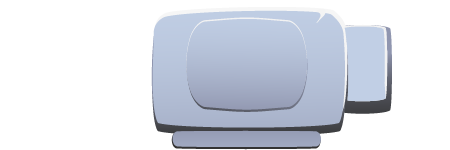
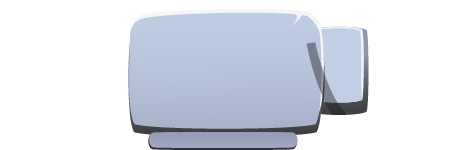
replaced spinbtn UI

Changed region(s): [[0.28, 0.0533, 0.8711, 1.0]]

diff --git a/src/utils/create_game_interface/create_game_interface.utils.ts b/src/utils/create_game_interface/create_game_interface.utils.ts
@@ -5,6 +5,7 @@ import { store } from "../../store/store";
 import { createSprite } from "../create_sprite/create_sprite.util";
 import { createText } from "../create_text/create_text.util";
 import { createBtn } from "../create_btn_hitpoint/create_btn_hitpoint.util";
+import { createSpinBtn } from "../create_spin_btn/create_spin_btn.util";
 const { bet } = store.getState().gameEconomy
 const { gameContainer, UI_, symbol } = store.getState().screenSize
 const quaterSize = symbol.fullSize * 0.25
@@ -22,11 +23,12 @@ export function createUI(fetchNewData: () => Promise<GameStatus | undefined>, ap
     const leftContainer = createUILeftContainer()
     const centerContainer = createUICenterContainer(fetchNewData)
     const rightContainer = createUIRightContainer()
-    centerContainer.position.x = oneSize + quaterSize + halfSize
-    rightContainer.position.x = fourSize + quaterSize
+
     UIContainer.addChild(leftContainer)
     UIContainer.addChild(centerContainer)
     UIContainer.addChild(rightContainer)
+    centerContainer.position.x = (UI_.width - centerContainer.width) / 2
+    rightContainer.position.x = fourSize + quaterSize
 
     return UIContainer
 }
@@ -35,7 +37,7 @@ export function createUIContainer(name: string, width = symbol.fullSize, y = 0) 
     const container = new Container()
     container.name = name
     container.width = width
-    container.height = UI_.height 
+    container.height = UI_.height
     container.position.y = y
     return container
 
@@ -45,16 +47,22 @@ export function createUICenterContainer(fetchNewData: () => Promise<GameStatus |
     const centerContainer = createUIContainer("centerContainer", threeSize)
     const autoSprite = createCenterSprite("ANVIL_1");
     const spinSprite = createCenterSprite("ANVIL_2");
+    const spinBtn = createSpinBtn()
+    console.log("spinbtn", spinBtn)
     const maxBetSprite = createCenterSprite("SHIELD");
     const autoHitArea = addHitArea("ANVIL_1", autoSprite, fetchNewData)
-    const spinHitArea = addHitArea("ANVIL_2", spinSprite, fetchNewData)
+    const spinHitArea = addHitArea("ANVIL_2", spinBtn, fetchNewData)
     const maxBetHitArea = addHitArea("SHIELD", maxBetSprite, fetchNewData)
     centerContainer.addChild(autoSprite)
     centerContainer.addChild(spinSprite)
     centerContainer.addChild(maxBetSprite)
+    centerContainer.addChild(spinBtn)
     centerContainer.addChild(autoHitArea)
     centerContainer.addChild(spinHitArea)
     centerContainer.addChild(maxBetHitArea)
+  
+    spinBtn.x = (threeSize - spinBtn.width) / 2
+    spinBtn.y = UI_.height * 0.1
     return centerContainer
 
 }
@@ -119,7 +127,7 @@ export function createUILeftContainer() {
 export function createUIRightContainer() {
     const { coins, coinValue } = store.getState().gameEconomy
     const btnSize = oneSize * 0.16
-    const rightContainer = createUIContainer("rightContainer", twoSize + (oneSize / 2))
+    const rightContainer = createUIContainer("rightContainer", twoSize)
 
     // display 1
     const coinValueContainer = createUIContainer("displayContainer", oneSize)
@@ -152,7 +160,7 @@ export function createUIRightContainer() {
     coinValueContainer.addChild(coinValueTxt)
     coinValueContainer.addChild(amountTxt)
 
-    coinValueContainer.position.x = halfSize
+    coinValueContainer.position.x = halfSize + quaterSize
 
 
     // display 2
@@ -167,13 +175,13 @@ export function createUIRightContainer() {
 
     goldCoinAmountTxt.y = goldCoinTxtY
     goldCoinAmountTxt.x = goldCoinTxtX
-    goldCoin.position.y = goldCoinY 
+    goldCoin.position.y = goldCoinY
     goldCoin.position.x = goldCoinX + halfDisplay
 
     goldCoinContainer.addChild(goldCoinDisplay)
     goldCoinContainer.addChild(goldCoin)
     goldCoinContainer.addChild(goldCoinAmountTxt)
-    goldCoinContainer.position.x = halfSize + oneSize
+    goldCoinContainer.position.x = oneSize + halfSize + quaterSize
 
     rightContainer.addChild(coinValueContainer)
     rightContainer.addChild(goldCoinContainer)

diff --git a/src/utils/create_button/create_button.util.ts b/src/utils/create_button/create_button.util.ts
@@ -1,4 +1,4 @@
-import { Container, Geometry, Graphics, Rectangle, Sprite, Text, TextStyle, utils } from "pixi.js";
+import { Container, DisplayObject, Geometry, Graphics, Rectangle, Sprite, Text, TextStyle, utils } from "pixi.js";
 import { Assets } from "../../types/global.types";
 import { store } from "../../store/store";
 import { GlowFilter } from "@pixi/filter-glow";
@@ -17,8 +17,6 @@ export function createCenterSprite(imgIcon: Assets) {
   sprite.eventMode = "static"
   sprite.alpha = 1;
   sprite.filters = [glow]
-  sprite.height = UI_.height
-  sprite.width = width
   return sprite
 }
 
@@ -32,7 +30,7 @@ export const textStyle = new TextStyle({
   dropShadowDistance: 2,
 })
 
-export function addHitArea(imgIcon: Assets, sprite: Sprite, fetchNewData: (bet?: number) => Promise<GameStatus | undefined>) {
+export function addHitArea(imgIcon: Assets, sprite: Sprite | Container<DisplayObject>, fetchNewData: (bet?: number) => Promise<GameStatus | undefined>) {
   const oneSquare = symbol.fullSize
   const hitContainer = new Container()
   hitContainer.name = `${imgIcon}_hitarea`
@@ -48,7 +46,7 @@ export function addHitArea(imgIcon: Assets, sprite: Sprite, fetchNewData: (bet?:
 
   if (imgIcon === "ANVIL_1") {
     const y = oneSquare * 0.2
-    const x = oneSquare * 0.5
+    const x = oneSquare * 0.3
     hitArea.position.x = x
     hitArea.position.y = y
     const autotxt = new Text("AUTO", textStyle);
@@ -63,28 +61,33 @@ export function addHitArea(imgIcon: Assets, sprite: Sprite, fetchNewData: (bet?:
     hitContainer.addChild(bettxt)
 
     hitArea.on('click', () => {
+      glowFilter.enabled = false
       store.dispatch({ type: "SET_AMOUNT_OF_BETS", bets: 5 })
     })
     hitArea.on('tap', () => {
+      glowFilter.enabled = false
       store.dispatch({ type: "SET_AMOUNT_OF_BETS", bets: 5 })
     })
 
   }
   if (imgIcon === "ANVIL_2") {
-    const y = oneSquare * 0.2
-    const x = oneSquare * 1.4
+    const y = oneSquare * 0.20
+    const x = oneSquare * 1.25
     hitArea.position.x = x
     hitArea.position.y = y
     const spintxt = new Text("SPIN", textStyle);
-    const spinMargin = (hitArea.width - spintxt.width) / 2
-    spintxt.x = x + spinMargin
-    spintxt.y = y
+    const spinMarginX = (hitArea.width - spintxt.width) / 2
+    const spinMarginY = (hitArea.height - spintxt.height) / 2
+    spintxt.x = x + spinMarginX
+    spintxt.y = hitArea.y + spinMarginY
     hitContainer.addChild(spintxt)
 
     hitArea.on('click', () => {
+      glowFilter.enabled = false
       gameController(fetchNewData)
     })
     hitArea.on('tap', () => {
+      glowFilter.enabled = false
       gameController(fetchNewData)
     })
 

diff --git a/src/components/game_canvas/game_canvas.component.tsx b/src/components/game_canvas/game_canvas.component.tsx
@@ -119,17 +119,9 @@ export function GameCanvas() {
     </CanvasContainer>
 }
 
-
 export function spinOneTime(app: Application<HTMLCanvasElement>, memoGameData: Result) {
 
     const { totalPrice } = store.getState().game
-    const gameContainer = findContainer(app, "gameContainer")
-    const darkness = findContainer(app, "darkness")
-    const goldTexture = utils.TextureCache[`./assets/GOLD.png`]
-    const gold = Texture.from('./GOLD.png')
-
-
-
 
     let time = 0
     const tick = new Ticker()
@@ -170,7 +162,6 @@ export function spinOneTime(app: Application<HTMLCanvasElement>, memoGameData: R
                     mask.rotation += rotationSpeed;
                     mask.scale.x = 1 + Math.sin(count) * 0.04;
                     mask.scale.y = 1 + Math.cos(count) * 0.04;
-
                 });
             }
         })
@@ -189,10 +180,8 @@ export function spinOneTime(app: Application<HTMLCanvasElement>, memoGameData: R
     // change this later
     const stopAt = symbol.fullSize
     let speed = 20;
-
     const oneSpin = new Ticker()
     oneSpin.add( () => {
-
         newGridContainer.y += speed;
         if (newGridContainer.position.y >= stopAt) {
             speed = 0
@@ -204,12 +193,10 @@ export function spinOneTime(app: Application<HTMLCanvasElement>, memoGameData: R
             }
             store.dispatch({ type: "ADD_COINS", payload: totalPrice })
             store.dispatch({ type: "NOT_LOADING" })
-
             oneSpin.destroy()
         }
     })
     oneSpin.start()
-
 }
 
 export function activateAlphas(memoGameData: Result) {

diff --git a/src/utils/create_spin_btn/create_spin_btn.util.ts b/src/utils/create_spin_btn/create_spin_btn.util.ts
@@ -1,0 +1,32 @@
+import { Container } from "pixi.js";
+import { createSprite } from "../create_sprite/create_sprite.util";
+import { store } from "../../store/store";
+import { GlowFilter } from "@pixi/filter-glow";
+
+const { gameContainer, UI_, symbol } = store.getState().screenSize
+const quaterSize = symbol.fullSize * 0.25
+const halfSize = symbol.fullSize * 0.5
+const oneSize = symbol.fullSize
+
+
+export function createSpinBtn() {
+    const container = new Container()
+    const glowOptions = { color: 0xffffff }
+    const glow = new GlowFilter(glowOptions)
+    
+    const ironSprite = createSprite("IRONFRAME")
+    const glassSprite = createSprite("GLASS")
+    const lavaSprite = createSprite("LAVA")
+    container.filters = [glow]
+    glow.enabled = false
+    container.sortableChildren = true
+    ironSprite.zIndex = 3
+    glassSprite.zIndex = 2
+    lavaSprite.zIndex = 1
+    container.addChild(ironSprite, glassSprite, lavaSprite)
+    glassSprite.y = (ironSprite.height - glassSprite.height) / 2
+    glassSprite.x = (ironSprite.width - glassSprite.width) / 2
+    lavaSprite.y = (ironSprite.height - lavaSprite.height) / 2
+    lavaSprite.x = (ironSprite.width - lavaSprite.width) / 2
+    return container
+}

diff --git a/src/types/global.types.ts b/src/types/global.types.ts
@@ -12,7 +12,7 @@ export enum Icons {
 }
 export type SimpleValue = "TEN" | "J" | "Q" | "K" | "A" | "WILD"
 export type Value = "TEN" | "J" | "Q" | "K" | "A" | "SCATTER" | "WILD" | "BONUS" | "TEN__" | "J__" | "Q__" | "K__" | "A__" | "SCATTER__" | "WILD__" | "BONUS__"
-export type Assets = "PAYLINES" | "TEN" | "J" | "Q" | "K" | "A" | "SCATTER" | "WILD" | "BONUS" | "BACKGROUND" | "ANVIL_1" | "ANVIL_2" | "SHIELD" | "SETTINGSDISPLAY" | "HAMMER" | "GOLD" | "DECREMENT" | "INCREMENT" | "BOARD" | "DISPLAY"
+export type Assets = "LAVA" | "GLASS" | "IRONFRAME" | "PAYLINES" | "TEN" | "J" | "Q" | "K" | "A" | "SCATTER" | "WILD" | "BONUS" | "BACKGROUND" | "ANVIL_1" | "ANVIL_2" | "SHIELD" | "SETTINGSDISPLAY" | "HAMMER" | "GOLD" | "DECREMENT" | "INCREMENT" | "BOARD" | "DISPLAY"
 export type Result = Value[][]
 
 export type SpriteGrid = Sprite[][]

diff --git a/src/utils/asset_loader/asset_loader.utils.ts b/src/utils/asset_loader/asset_loader.utils.ts
@@ -68,6 +68,9 @@ export async function loadAssets() {
    const asset_36_img = "./assets/GOLD_7.png"
    const asset_37_img = "./assets/GOLD_8.png"
    const asset_38_img = "./assets/GOLD_9.png"
+   const asset_39_img = "./assets/GLASS.png"
+   const asset_40_img = "./assets/IRONFRAME.png"
+   const asset_41_img = "./assets/LAVA.png"
 
    try {
 
@@ -109,8 +112,9 @@ export async function loadAssets() {
       await Assets.load<Texture>(asset_36_img);
       await Assets.load<Texture>(asset_37_img);
       await Assets.load<Texture>(asset_38_img);
-
-
+      await Assets.load<Texture>(asset_39_img);
+      await Assets.load<Texture>(asset_40_img);
+      await Assets.load<Texture>(asset_41_img);
       return true
 
    } catch (err) {

diff --git a/src/utils/asset_loader/font_loader.ts b/src/utils/asset_loader/font_loader.ts
@@ -1,8 +1,6 @@
 export async function fontLoader() {
 
     await new Promise((res) => {
-        // if(window.document.head.children.getName?)
-
         const link = document.createElement('link')
         link.className = "TEXTLINK"
         link.rel = 'stylesheet';
